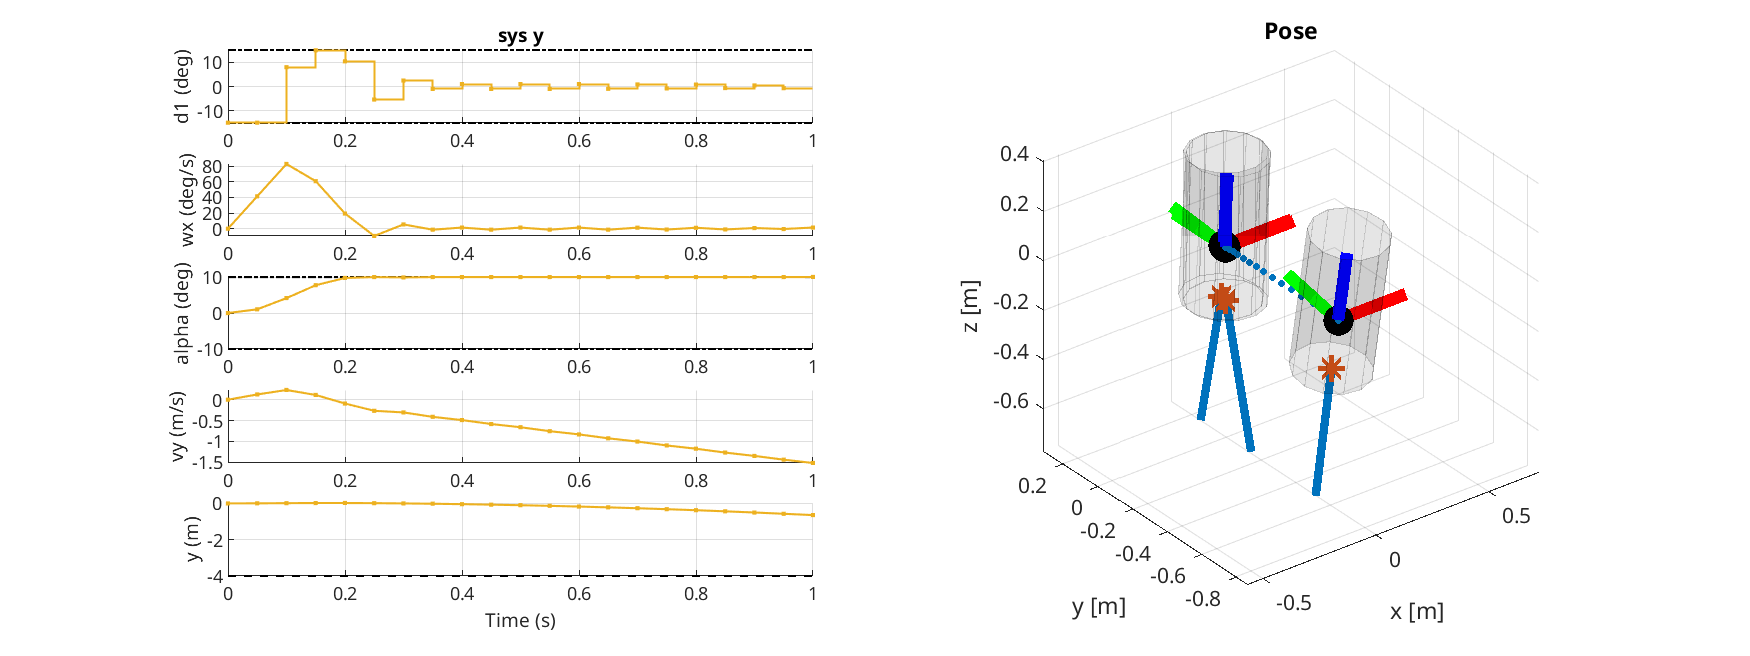
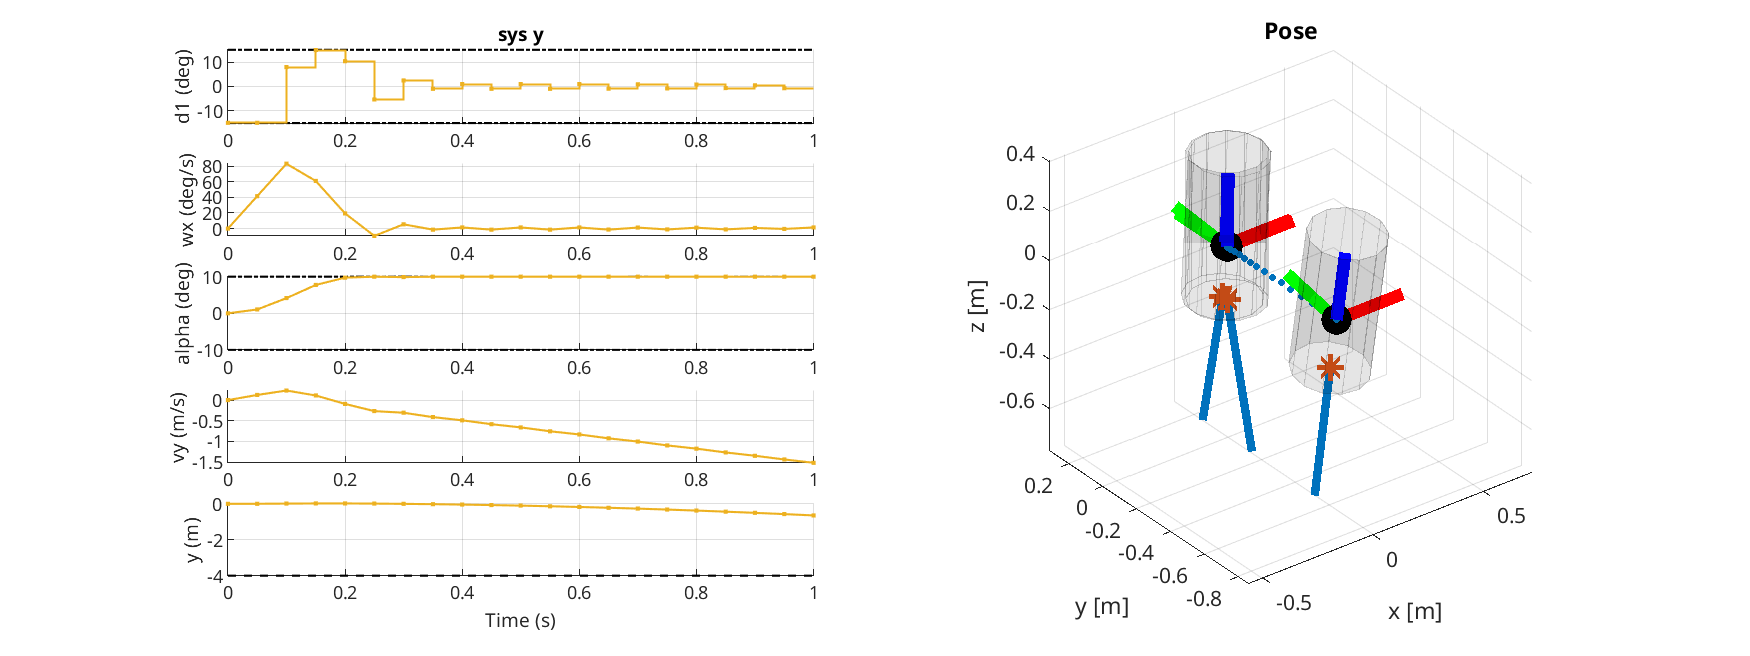
updated z costs in 3.1 3.2

diff --git a/Deliverable_3_1/MpcControl_z.m b/Deliverable_3_1/MpcControl_z.m
@@ -44,8 +44,8 @@ classdef MpcControl_z < MpcControlBase
             % YOUR CODE HERE YOUR CODE HERE YOUR CODE HERE YOUR CODE HERE
 
             % Horizon and cost matrices
-            Q = 10 * eye(2);
-            R = 1;
+            Q = diag([1 400]);
+            R = 0.1;
 
             % u in U = { u | Mu <= m }
             % Take into account the steady state

diff --git a/Deliverable_3_2/MpcControl_z.m b/Deliverable_3_2/MpcControl_z.m
@@ -44,8 +44,8 @@ classdef MpcControl_z < MpcControlBase
             % YOUR CODE HERE YOUR CODE HERE YOUR CODE HERE YOUR CODE HERE
 
             % Horizon and cost matrices
-            Q = 10 * eye(2);
-            R = 1;
+            Q = diag([1 400]);
+            R = 0.1;
 
             % u in U = { u | Mu <= m }
             us = 56.6667;
